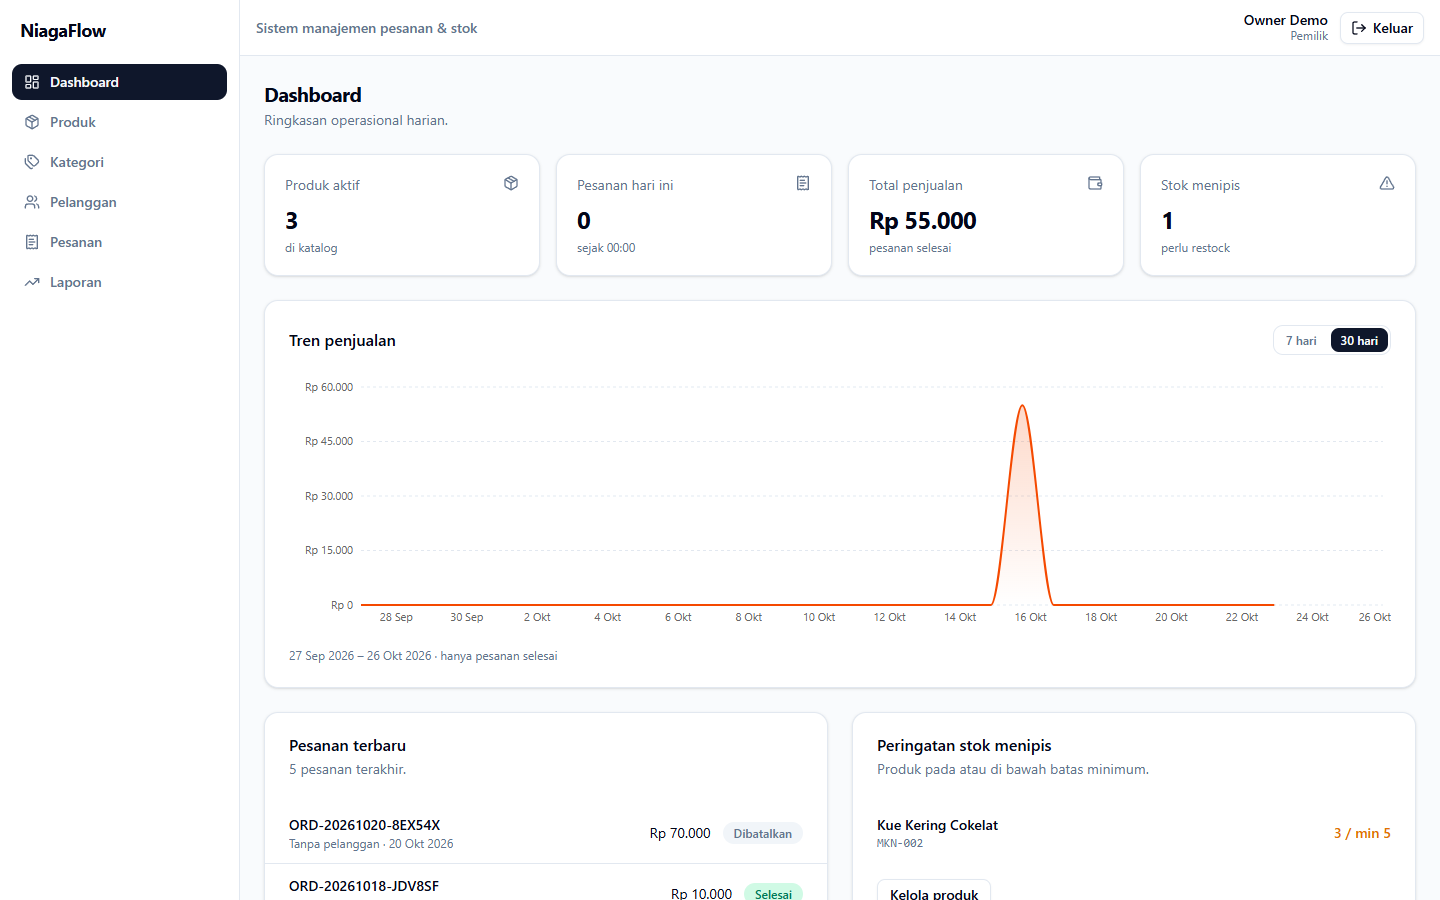
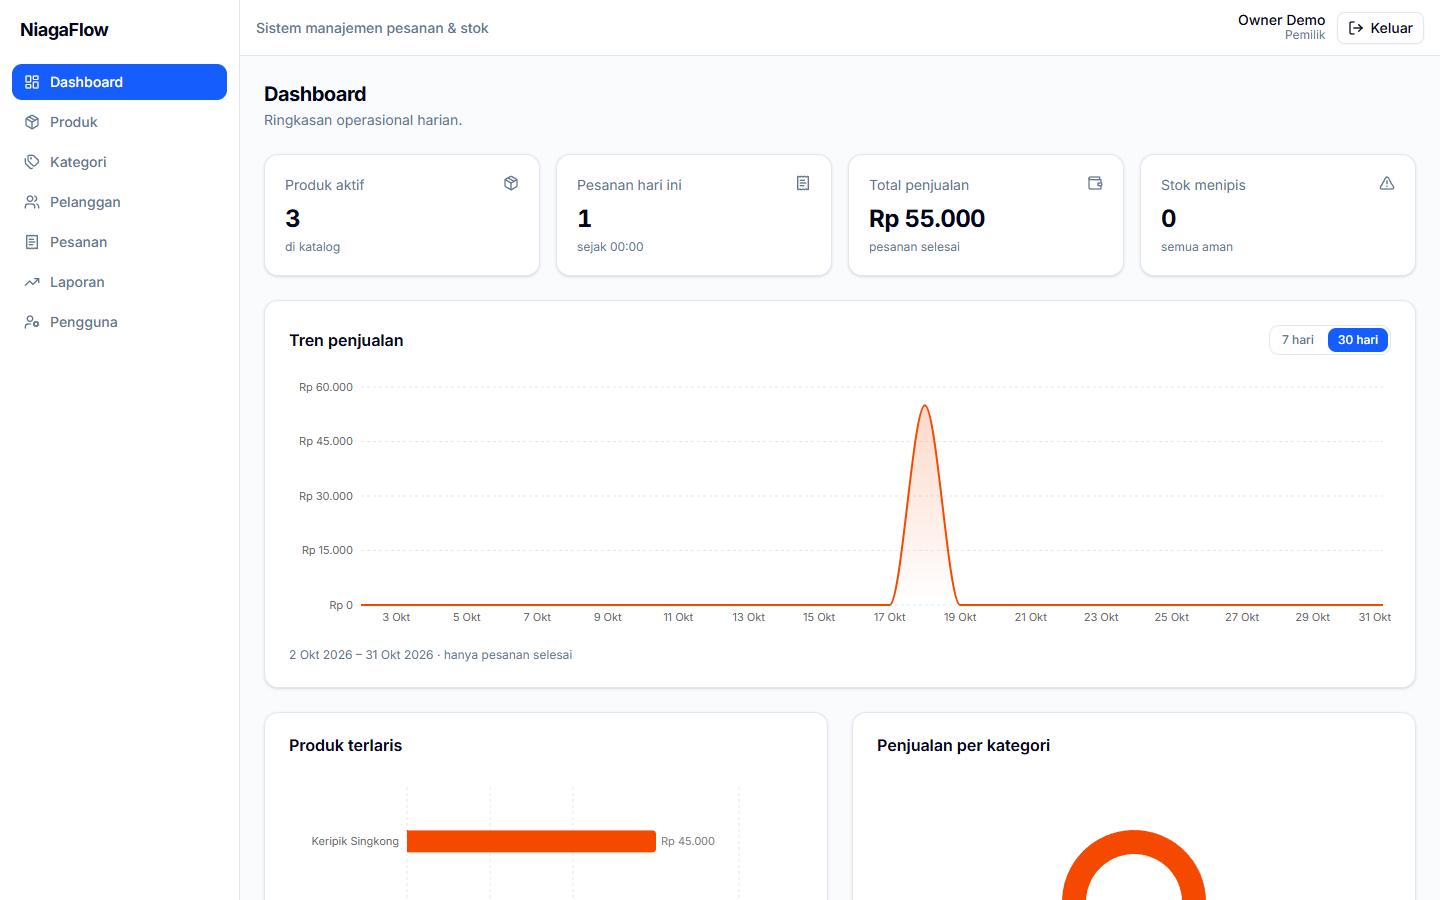
ISSUE-021: tema primer biru #2563EB + font Inter, screenshot README diambil ulang

diff --git a/apps/web/src/index.css b/apps/web/src/index.css
@@ -1,5 +1,8 @@
 @import "tailwindcss";
 @import "tw-animate-css";
+/* Font Inter (pedoman §10: "font yang mudah dibaca, misalnya Inter") —
+   dipaket lewat @fontsource supaya mandiri, tanpa permintaan ke pihak ketiga. */
+@import "@fontsource-variable/inter";
 
 @custom-variant dark (&:is(.dark *));
 
@@ -11,8 +14,8 @@
   --card-foreground: oklch(0.129 0.042 264.695);
   --popover: oklch(1 0 0);
   --popover-foreground: oklch(0.129 0.042 264.695);
-  --primary: oklch(0.208 0.042 265.755);
-  --primary-foreground: oklch(0.984 0.003 247.858);
+  --primary: oklch(0.546 0.245 262.881);
+  --primary-foreground: oklch(1 0 0);
   --secondary: oklch(0.968 0.007 247.896);
   --secondary-foreground: oklch(0.208 0.042 265.755);
   --muted: oklch(0.968 0.007 247.896);
@@ -23,7 +26,7 @@
   --destructive-foreground: oklch(0.984 0.003 247.858);
   --border: oklch(0.929 0.013 255.508);
   --input: oklch(0.929 0.013 255.508);
-  --ring: oklch(0.704 0.04 256.788);
+  --ring: oklch(0.546 0.245 262.881);
   --chart-1: oklch(0.646 0.222 41.116);
   --chart-2: oklch(0.6 0.118 184.704);
   --chart-3: oklch(0.398 0.07 227.392);
@@ -31,12 +34,12 @@
   --chart-5: oklch(0.769 0.188 70.08);
   --sidebar: oklch(0.984 0.003 247.858);
   --sidebar-foreground: oklch(0.129 0.042 264.695);
-  --sidebar-primary: oklch(0.208 0.042 265.755);
-  --sidebar-primary-foreground: oklch(0.984 0.003 247.858);
+  --sidebar-primary: oklch(0.546 0.245 262.881);
+  --sidebar-primary-foreground: oklch(1 0 0);
   --sidebar-accent: oklch(0.968 0.007 247.896);
   --sidebar-accent-foreground: oklch(0.208 0.042 265.755);
   --sidebar-border: oklch(0.929 0.013 255.508);
-  --sidebar-ring: oklch(0.704 0.04 256.788);
+  --sidebar-ring: oklch(0.546 0.245 262.881);
 }
 
 .dark {
@@ -46,8 +49,8 @@
   --card-foreground: oklch(0.984 0.003 247.858);
   --popover: oklch(0.208 0.042 265.755);
   --popover-foreground: oklch(0.984 0.003 247.858);
-  --primary: oklch(0.929 0.013 255.508);
-  --primary-foreground: oklch(0.208 0.042 265.755);
+  --primary: oklch(0.546 0.245 262.881);
+  --primary-foreground: oklch(1 0 0);
   --secondary: oklch(0.279 0.041 260.031);
   --secondary-foreground: oklch(0.984 0.003 247.858);
   --muted: oklch(0.279 0.041 260.031);
@@ -66,7 +69,7 @@
   --chart-5: oklch(0.645 0.246 16.439);
   --sidebar: oklch(0.208 0.042 265.755);
   --sidebar-foreground: oklch(0.984 0.003 247.858);
-  --sidebar-primary: oklch(0.488 0.243 264.376);
+  --sidebar-primary: oklch(0.546 0.245 262.881);
   --sidebar-primary-foreground: oklch(0.984 0.003 247.858);
   --sidebar-accent: oklch(0.279 0.041 260.031);
   --sidebar-accent-foreground: oklch(0.984 0.003 247.858);
@@ -75,6 +78,8 @@
 }
 
 @theme inline {
+  --font-sans: "Inter Variable", ui-sans-serif, system-ui, sans-serif,
+    "Apple Color Emoji", "Segoe UI Emoji";
   --radius-sm: calc(var(--radius) - 4px);
   --radius-md: calc(var(--radius) - 2px);
   --radius-lg: var(--radius);

diff --git a/plan/issues/ISSUE-021.md b/plan/issues/ISSUE-021.md
@@ -1,0 +1,84 @@
+# ISSUE-021 — Ganti tema primer #2563EB + font Inter
+
+Status: done | Priority: P2 | Selesai: 31 Okt 2026
+
+Sumber: `plan/POS_UI_UX_Guideline.md` §10 (palet "Primary `#2563EB`", aturan visual
+"font ... misalnya Inter"). Tahap B paket terakhir dari audit `plan/audit-pos-uiux.md`
+(P2 no. 13). Screenshot README ikut diulang mengikuti backlog.
+
+## Goal
+
+Primer aplikasi biru `#2563EB` (bukan slate gelap) dan teks memakai font Inter,
+sesuai pedoman; dokumentasi README diperbarui dengan screenshot baru bertema baru.
+
+## Asumsi keputusan (default konvensional, tidak ada jawaban khusus dari user)
+
+- **Hanya primer + font** (lingkup temuan 13): `--primary`, `--ring`,
+  `--sidebar-primary`, `--sidebar-ring` → `oklch(0.546 0.245 262.881)` (= `#2563EB`,
+  biru-600 Tailwind) dengan teks putih. Ikon/logo/link biru ikut otomatis lewat token.
+- **Token lain tidak diubah**: danger sudah persis `#DC2626`, status hijau/merah/kuning
+  pada kartu produk & badge sudah dekat pedoman, latar halaman sudah putih + `muted`
+  slate-50 (setara `#F8FAFC`), radius kartu tetap 10px. Mengubahnya di luar lingkup
+  temuan 13 hanya menambah risiko regresi visual.
+- **Varian gelap** (`@media`/kelas `.dark`) disamakan warna primernya agar tetap
+  koheren; aplikasi saat ini memang belum punya sakelar gelap.
+- **Font Inter dipaket via `@fontsource-variable/inter`** (self-hosted): satu paket
+  kecil, tanpa permintaan ke Google Fonts saat runtime (hemat & aman dari CORS/CSP),
+  fallback ke system font bila gagal muat.
+- Screenshot README diambil ulang dari app lokal (login owner) dengan viewport
+  **1440×900** — ukuran sama dengan screenshot lama.
+
+## Scope
+
+### Frontend
+
+- `apps/web/src/index.css`:
+  - Impor `@fontsource-variable/inter`.
+  - Token primer (terang + gelap), ring, sidebar-primary, sidebar-ring → biru-600.
+  - `@theme inline`: `--font-sans` diisi `"Inter Variable"` + fallback system.
+- `apps/web/package.json` + `package-lock.json`: dependensi baru
+  `@fontsource-variable/inter`.
+- `docs/screenshots/*.png`: dashboard, produk, pesanan, laporan diambil ulang
+  (1440×900, tema biru + Inter).
+
+### Dokumentasi
+
+- `plan/audit-pos-uiux.md`: temuan 13 ditandai selesai; ringkasan tahap diperbarui.
+
+## Acceptance Criteria
+
+- [x] Warna aksi utama (tombol primer, link, indikator menu aktif) biru `#2563EB`
+- [x] Seluruh halaman memakai font Inter (self-hosted, fallback system font)
+- [x] Kontras teks tombol primer tetap lolos (putih di atas biru-600)
+- [x] Typecheck + build web hijau
+- [x] Screenshot README diambil ulang dengan tema baru (1440×900)
+
+## Verifikasi (31 Okt 2026, lokal, browser + build)
+
+| AC | Cara uji | Hasil |
+|---|---|---|
+| Token primer | Eval `getComputedStyle` di `/dashboard` | Lulus. `--primary: oklch(0.546 0.245 262.881)` = `#2563EB`. |
+| Font Inter | Eval `document.fonts` setelah login | Lulus. Keluarga terdaftar & termuat: "Inter Variable"; `body` memakai `"Inter Variable", ui-sans-serif, ...`. |
+| Visual | Login owner → cek dashboard, produk, pesanan, laporan | Lulus. Tombol "Masukkan stok baru", link "Lihat semua", logo, badge stok kini biru; teks Inter. |
+| Screenshot | Ambil ulang 4 layar via playwright viewport 1440×900 | Lulus. Empat file `docs/screenshots/*.png` = 1440×900, tema biru. |
+| Typecheck/build | `npm run typecheck -w apps/web`, `npm run build -w apps/web` | Lulus. |
+| Konsol | `console error` saat uji browser | Bersih (hanya 401 `/auth/me` saat layar masuk & favicon 404 — sudah ada sebelumnya, bukan dari tema ini). |
+
+## Perubahan kode
+
+- `apps/web/src/index.css`
+- `apps/web/package.json`, `package-lock.json`
+- `docs/screenshots/dashboard.png`, `produk.png`, `pesanan.png`, `laporan.png`
+- `plan/audit-pos-uiux.md` (temuan 13, ringkasan tahap)
+
+## Catatan / sisa
+
+- Tema gelap (`--primary` di blok gelap) ikut disamakan tapi belum pernah ditampilkan
+  (belum ada sakelar mode gelap) — bila suatu saat ditambahkan, uji ulang kontras.
+- Sisa audit setelah isu ini: tidak ada lagi di Tahap B; sisa P3 (PDF, notifikasi,
+  profil/ganti password sendiri) menunggu keputusan Anda di backlog.
+
+## Refs
+
+- `plan/POS_UI_UX_Guideline.md` §10 (palet warna, aturan visual)
+- `plan/audit-pos-uiux.md` temuan P2 no. 13

diff --git a/plan/audit-pos-uiux.md b/plan/audit-pos-uiux.md
@@ -106,6 +106,8 @@ ditutupi (lihat §4).
     **Selesai: ISSUE-017** — nama/harga/stok kini tersedia dua arah.
 13. **Desain sistem beda dari pedoman**: primer `#2563EB` biru + font Inter (§10.1–§10.2);
     aplikasi memakai primer slate gelap + font bawaan. Bisa diubah, tapi ini seluruh tema.
+    **Selesai: ISSUE-021** — primer kini `#2563EB` (token ring & sidebar ikut) dan font
+    Inter self-hosted via `@fontsource-variable/inter`; screenshot README diambil ulang.
 
 ### P3 — rendah / opsional
 
@@ -139,8 +141,8 @@ Kerjakan bertahap, mulai dari yang aman dan bernilai:
   **Selesai — ISSUE-016 (grafik + periode) dan ISSUE-017 (label stok + urut).**
 - **Tahap B (butuh keputusan Anda):** no. 1–3 (halaman POS + metode bayar + diskon),
   no. 6 (riwayat stok), no. 8 (peran), no. 13 (ganti tema).
-  **Sebagian selesai — ISSUE-018 (no. 1–3), ISSUE-019 (no. 6), ISSUE-020 (no. 8);
-  sisa no. 13 (ISSUE-021).**
+  **Selesai — ISSUE-018 (no. 1–3), ISSUE-019 (no. 6), ISSUE-020 (no. 8), ISSUE-021
+  (no. 13). Seluruh paket Tahap B lengkap.**
 
 Setelah Anda pilih tahap/lingkup, tiap item dipecah jadi issue (backlog → loop),
 lalu dikerjakan satu per satu.

diff --git a/plan/backlog.md b/plan/backlog.md
@@ -39,7 +39,7 @@ Dijalankan mengikuti `workflow.md`: audit selesai → **menunggu tinjau pendekat
   - [x] ISSUE-018 — POS: metode bayar (Tunai/QRIS/Transfer) + uang diterima/kembalian + diskon Rp/% (P0, audit no. 1–3) ✅ 26 Okt 2026
   - [x] ISSUE-019 — Riwayat pergerakan stok: tabel StockMovement + form Stok masuk/keluar + halaman riwayat (P1, audit no. 6)
   - [x] ISSUE-020 — Peran 4 jenis (owner, kasir, pengelola stok, admin) + halaman kelola pengguna (P1, audit no. 8 + no. 16)
-  - [ ] ISSUE-021 — Ganti tema primer #2563EB + font Inter (P2, audit no. 13; screenshot README ikut diulang)
+  - [x] ISSUE-021 — Ganti tema primer #2563EB + font Inter (P2, audit no. 13; screenshot README ikut diulang)
 
 ## Temuan tertunda (PM GATE 3 — 20 Okt 2026)
 
